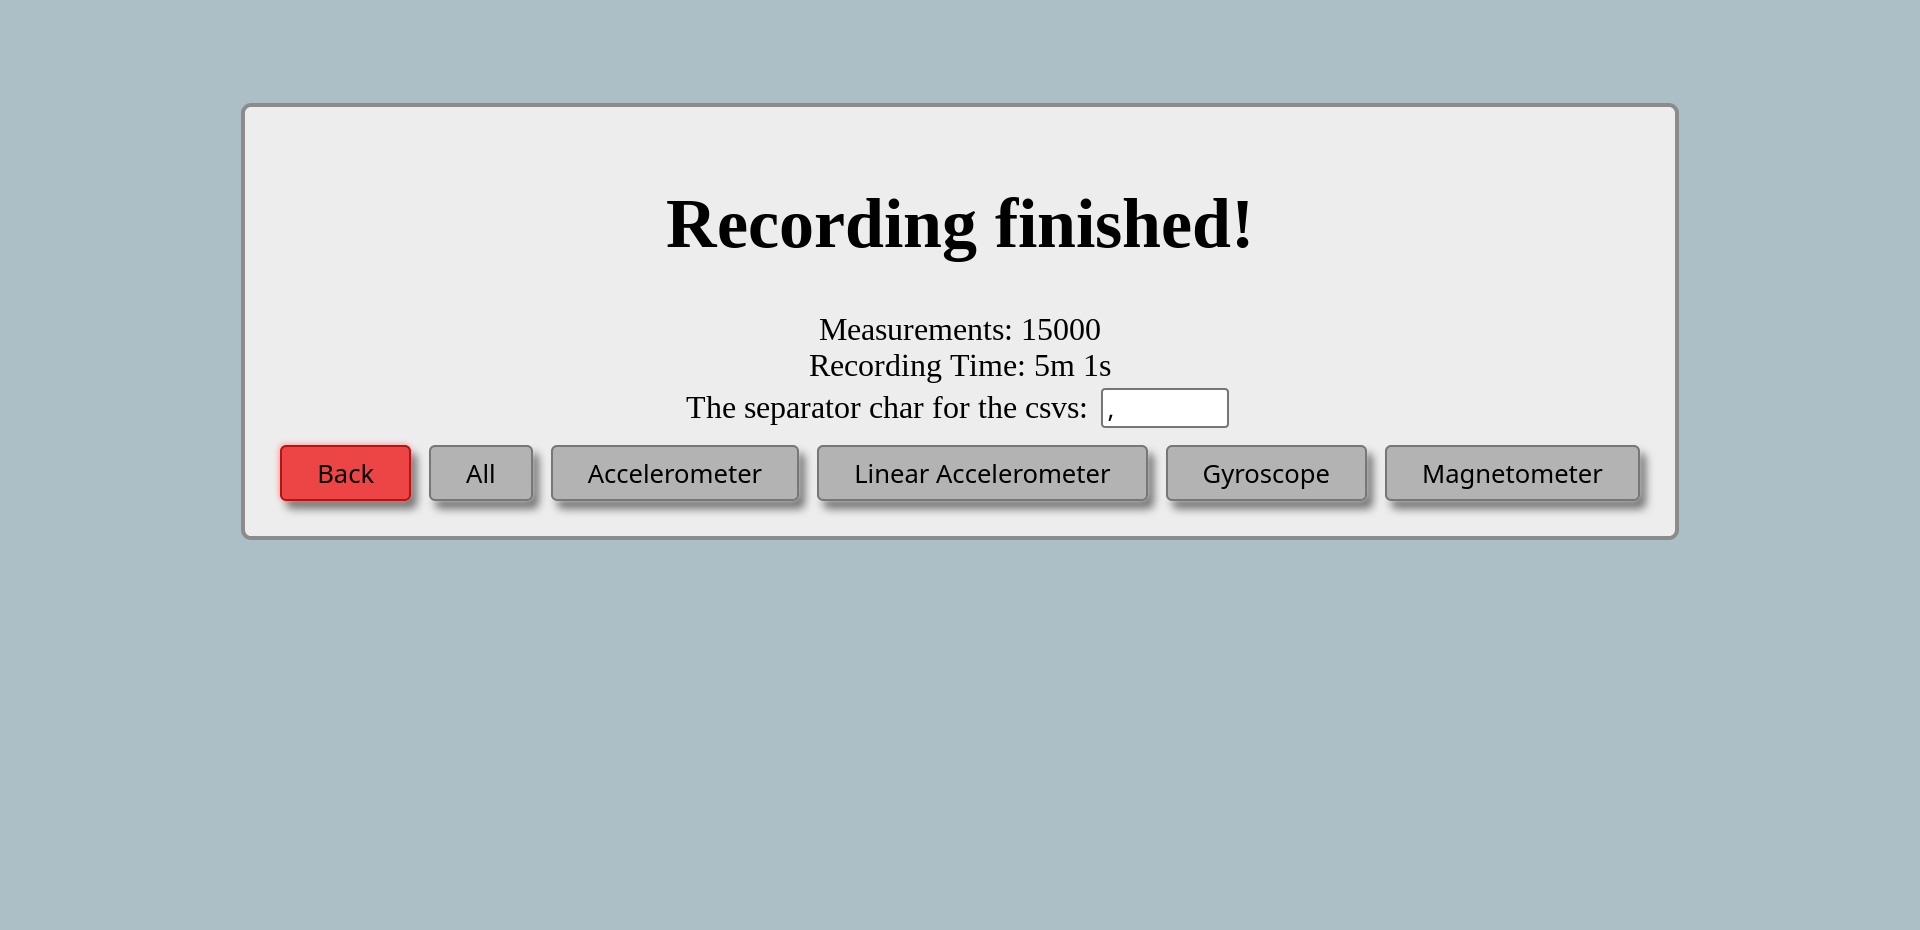
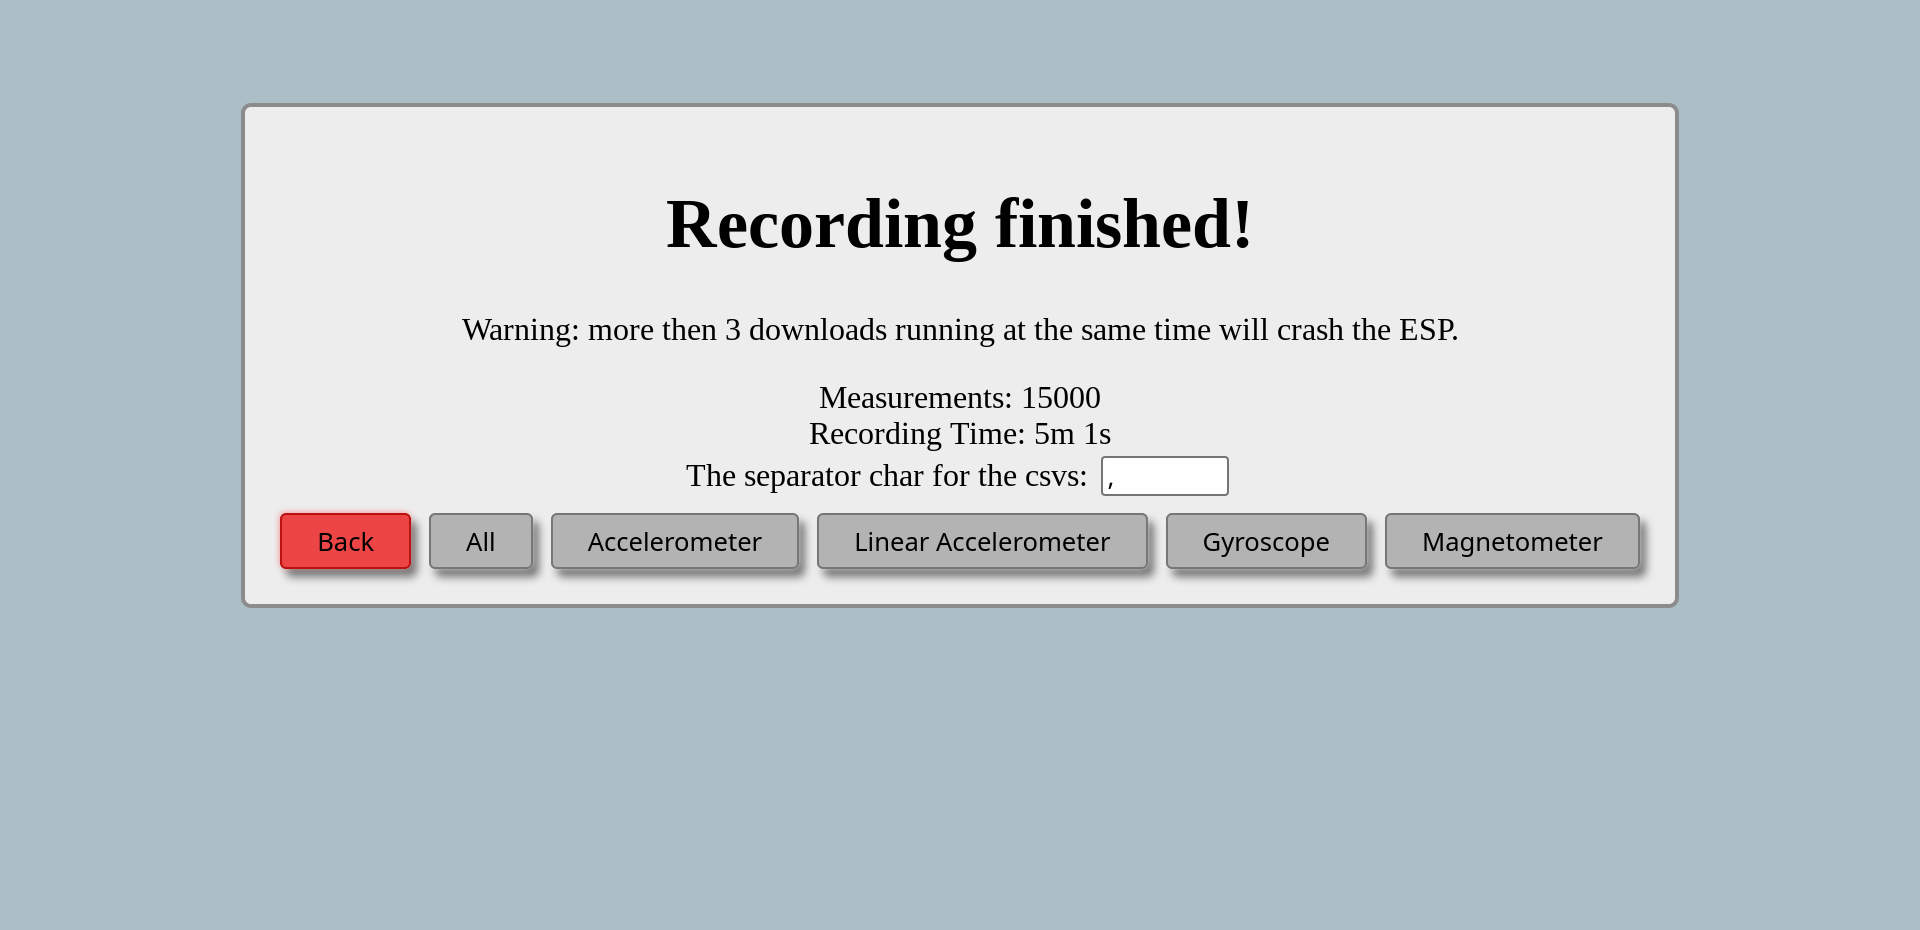
Add a warning about the esp crashing to the downloads page

Changed region(s): [[0.125, 0.343, 0.875, 0.6548]]

diff --git a/src/html/unavailable.html b/src/html/unavailable.html
@@ -8,11 +8,11 @@
 <body>
 	<form method="post" action="/index.html" class="main">
 		<h1>The requested file is currently unavailable!</h1>
-		<p>The measurement csvs are currently not available.</p>
-		<p>This is either because no measurement was started yet</p>
-		<p>or because the esp is currently generating them.</p>
-		<p>The measurement csvs are only available when the esp is done recording measurements</p>
-		<p>and calculating the measurement csv sizes.</p>
+		The measurement csvs are currently not available.<br />
+		This is either because no measurement was started yet<br />
+		or because the esp is currently generating them.<br />
+		The measurement csvs are only available when the esp is done recording measurements<br />
+		and calculating the measurement csv sizes.
 		<p>Want back to the main page?</p>
 		<button class="redbtn smallbtn">Home</button>
 	</form>

diff --git a/src/html/results.html b/src/html/results.html
@@ -8,6 +8,7 @@
 <body>
 	<form method="post" action="index.html" class="main">
 		<h1>Recording finished!</h1>
+		<p>Warning: more then 3 downloads running at the same time will crash the ESP.</p>
 		Measurements: $measurements<br />
 		Recording Time: $time<br />
 		<label for="separator">The separator char for the csvs: </label>
